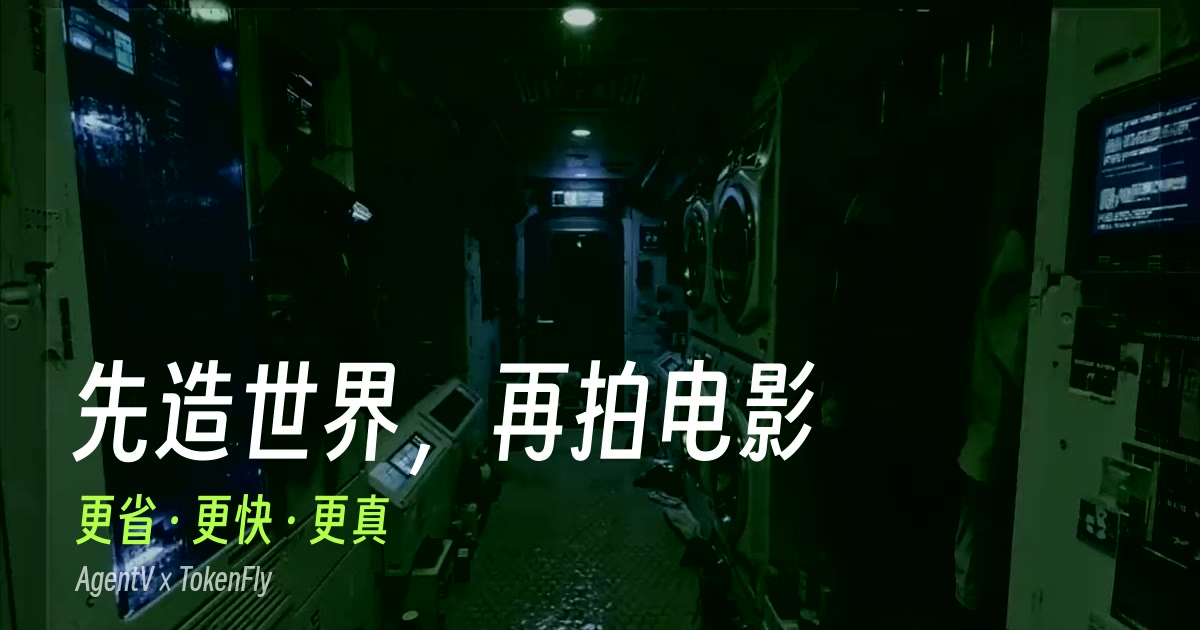
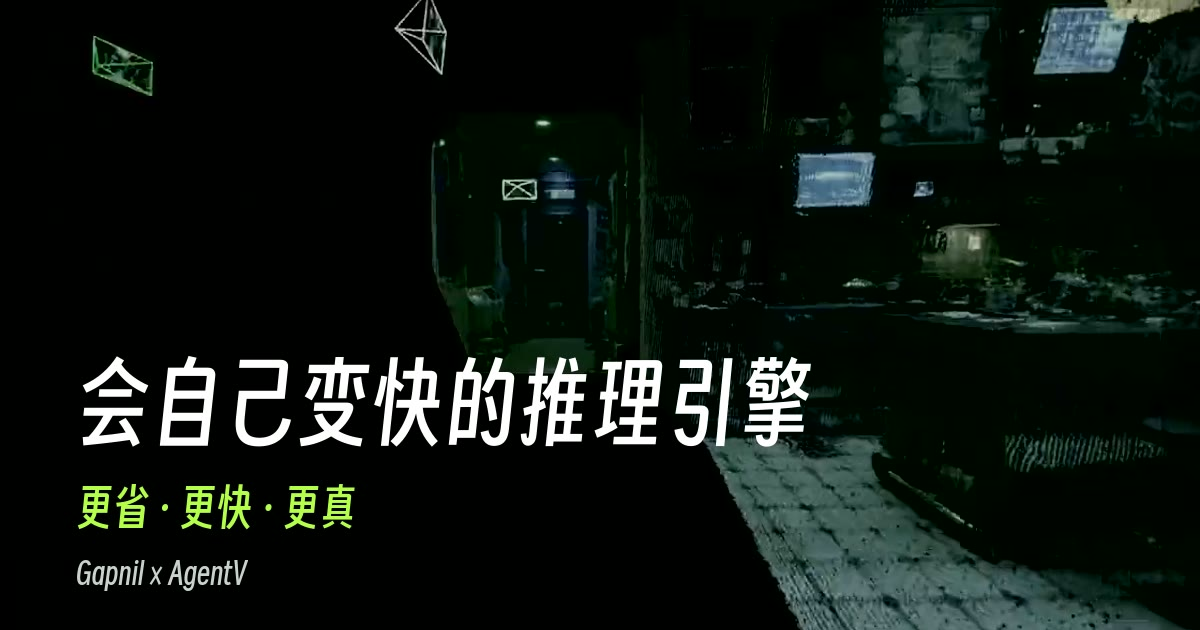
Rename TokenFly to Gapnil, add Gapnil CTA, drop GPU counts from benchmark
Point links, the price API and the switch command at zerogap.cn and
regenerate the share image with the new name.

diff --git a/index.html b/index.html
@@ -3,9 +3,9 @@
 <head>
 <meta charset="utf-8">
 <meta name="viewport" content="width=device-width,initial-scale=1">
-<title>TokenFly × AgentV · 会自己变快的推理引擎</title>
-<meta name="description" content="TokenFly 推理引擎让 330 亿参数的视频模型在 8 张消费级显卡上约 5 秒出片，一条约两三分钱（估算）。AgentV 用它在能走进去的 3D 空间里拍电影。">
-<meta property="og:title" content="TokenFly × AgentV · 会自己变快的推理引擎">
+<title>Gapnil × AgentV · 会自己变快的推理引擎</title>
+<meta name="description" content="Gapnil 推理引擎让 330 亿参数的视频模型在 8 张消费级显卡上约 5 秒出片，一条约两三分钱（估算）。AgentV 用它在能走进去的 3D 空间里拍电影。">
+<meta property="og:title" content="Gapnil × AgentV · 会自己变快的推理引擎">
 <meta property="og:description" content="330 亿参数的视频模型，8 张消费级显卡，约 5 秒出片。更省、更快、更真。">
 <meta property="og:type" content="website">
 <meta property="og:image" content="https://gapnil-ai.github.io/io/og.jpg">
@@ -58,7 +58,7 @@ nav .r a.go{color:#07090a;background:var(--ac);padding:7px 16px;border-radius:99
 .race small{display:block;color:var(--mute);font-size:12px;margin-top:6px;line-height:1.5}
 @media(max-width:900px){.hero{height:auto;padding-top:38svh}.hero .in{grid-template-columns:1fr;gap:26px;padding-bottom:36px}}
 
-section{padding:130px 0 0;scroll-margin-top:-50px}section.w{padding-top:130px}
+section{padding:130px 0 0;scroll-margin-top:-50px}section.w{padding-top:130px}.hero .btn{margin-bottom:10px}
 .k{display:flex;gap:14px;align-items:center;margin-bottom:18px}.k i{width:36px;height:1px;background:var(--ac)}
 h2{font-size:clamp(34px,5.2vw,68px);line-height:1.08}
 .lead{color:var(--mute);font-size:18px;max-width:600px;margin:18px 0 0}
@@ -210,21 +210,21 @@ footer{border-top:1px solid var(--line);padding:34px 0 50px;color:var(--mute);fo
 </style>
 </head>
 <body>
-<nav id="nav"><div class="w"><a class="l" href="#">TokenFly <span class="ac">×</span> AgentV</a><div class="r"><a href="#engine">TokenFly 引擎</a><a href="#rsi">自演进</a><a href="#agentv">AgentV</a><a href="#api">API</a><a href="#cost">算账</a><a class="go" href="https://poping.art/agentv">立即体验</a></div></div></nav>
+<nav id="nav"><div class="w"><a class="l" href="#">Gapnil <span class="ac">×</span> AgentV</a><div class="r"><a href="#engine">Gapnil 引擎</a><a href="#rsi">自演进</a><a href="#agentv">AgentV</a><a href="#api">API</a><a href="#cost">算账</a><a class="go" href="https://poping.art/agentv">立即体验</a></div></div></nav>
 
 <header class="hero">
   <video id="hv" src="media/world.mp4" poster="media/world.jpg" autoplay muted loop playsinline></video>
   <div class="w in">
     <div>
-      <div class="mono ac" style="margin-bottom:18px">TokenFly 推理引擎 · 更省 · 更快 · 更真</div>
+      <div class="mono ac" style="margin-bottom:18px">Gapnil 推理引擎 · 更省 · 更快 · 更真</div>
       <h1>会自己变快的<br>推理引擎</h1>
-      <p>TokenFly 让 330 亿参数的视频模型在 8 张消费级显卡上约 5 秒出片，生成比播放还快，一条只要两三分钱。AgentV 用它在真实的 3D 空间里拍电影。</p>
-      <a class="btn p" href="#engine">它为什么这么快</a> <a class="btn g" href="https://poping.art/agentv">体验 AgentV</a>
+      <p>Gapnil 让 330 亿参数的视频模型在 8 张消费级显卡上约 5 秒出片，生成比播放还快，一条只要两三分钱。AgentV 用它在真实的 3D 空间里拍电影。</p>
+      <a class="btn p" href="#engine">它为什么这么快</a> <a class="btn g" href="https://poping.art/agentv">体验 AgentV</a> <a class="btn g" href="https://zerogap.cn/">体验 Gapnil</a>
     </div>
     <div class="race br" id="race">
       <div class="t"><span>成片播放</span><span class="num" id="r1">0.00</span></div>
       <div class="track"><i id="b1"></i></div>
-      <div class="t"><span class="ac">TokenFly 生成</span><span class="num ac" id="r2">0.00</span></div>
+      <div class="t"><span class="ac">Gapnil 生成</span><span class="num ac" id="r2">0.00</span></div>
       <div class="track g"><i id="b2"></i></div>
       <div class="verdict" id="vd">生成比播放快 <span class="ac">0.34 秒</span></div>
       <small>计时按真实速度播放。720p 线上生成 4.83 秒，成片时长 5.17 秒；线上 3 步配置，画质与完整模式不等价。背景为产品真实录屏。</small>
@@ -240,9 +240,9 @@ footer{border-top:1px solid var(--line);padding:34px 0 50px;color:var(--mute);fo
 </div>
 <section id="engine">
   <div class="w">
-    <div class="k rv"><i></i><span class="mono ac">01 TokenFly 引擎 · 速度</span></div>
+    <div class="k rv"><i></i><span class="mono ac">01 Gapnil 引擎 · 速度</span></div>
     <h2 class="rv">330 亿参数的视频模型，<br>约 5 秒出片</h2>
-    <p class="lead rv">TokenFly 是零隙智能从零自研的推理引擎，不依赖现成的推理框架。同一个开源模型，单张显卡跑完整模式要将近 4 分钟；在 TokenFly 上，线上生成中位数 5.23 秒，720p 下 4.83 秒，比成片播放还快。</p>
+    <p class="lead rv">Gapnil 是零隙智能从零自研的推理引擎，不依赖现成的推理框架。同一个开源模型，单张显卡跑完整模式要将近 4 分钟；在 Gapnil 上，线上生成中位数 5.23 秒，720p 下 4.83 秒，比成片播放还快。</p>
     <div class="st3 q rv">
       <div><b class="num">8<i class="sm">张卡</i></b><span>消费级 RTX 5090，显卡之间没有高端互连，单个请求照样拆到多卡上加速</span></div>
       <div><b class="num">3<i class="sm">倍</i></b><span>同一组提示词、同为 3 步，比 SGLang 部署快约 3 倍</span></div>
@@ -283,11 +283,11 @@ footer{border-top:1px solid var(--line);padding:34px 0 50px;color:var(--mute);fo
     </div>
     <h3 class="rv" style="font-size:34px;margin-top:80px">同一组提示词，快约 3 倍</h3>
     <div class="bm rv" id="bm">
-      <div class="r t"><span>TokenFly · 3 步 · 7 卡</span><div><i data-w="9.8"></i></div><b class="num">9.19–11.73</b></div>
-      <div class="r"><span>SGLang · 3 步 · 4 卡</span><div><i data-w="26.4"></i></div><b class="num">29.65–31.74</b></div>
-      <div class="r"><span>SGLang · 20 步 · 4 卡</span><div><i data-w="97.4"></i></div><b class="num">114.9–116.9</b></div>
+      <div class="r t"><span>Gapnil · 3 步</span><div><i data-w="9.8"></i></div><b class="num">9.19–11.73</b></div>
+      <div class="r"><span>SGLang · 3 步</span><div><i data-w="26.4"></i></div><b class="num">29.65–31.74</b></div>
+      <div class="r"><span>SGLang · 20 步</span><div><i data-w="97.4"></i></div><b class="num">114.9–116.9</b></div>
     </div>
-    <p class="note rv">客户端端到端耗时（秒），1280×720、124 帧，6 条提示词，2026 年 10 月 14 日。TokenFly 用 NVFP4 精度，SGLang 用 BF16 精度，显卡数不同。</p>
+    <p class="note rv">客户端端到端耗时（秒），1280×720、124 帧，6 条提示词，2026 年 10 月 14 日。Gapnil 用 NVFP4 精度，SGLang 用 BF16 精度。</p>
     <div class="anis rv"><span class="mono mute">原理动画</span><a href="assets/feature-amdahl.svg">先找瓶颈</a><a href="assets/feature-multigpu.svg">多卡协作</a><a href="assets/feature-fewstep.svg">少算几步</a></div>
     <h3 class="rv" style="font-size:34px;margin-top:80px">消费级显卡，整机搬得进机房</h3>
     <div class="after rv">
@@ -344,10 +344,10 @@ footer{border-top:1px solid var(--line);padding:34px 0 50px;color:var(--mute);fo
 <section id="agentv" class="w">
   <div class="k rv"><i></i><span class="mono ac">技术落到产品 · AgentV</span></div>
   <h2 class="rv">引擎快了，<br>拍片的方式就变了</h2>
-  <p class="lead rv">AgentV 是跑在 TokenFly 上的导演台。改完马上能看到，所以它敢让你先搭出一个 3D 世界、摆好机位，再一个镜头一个镜头地拍。每个产品承诺，背后都有一项技术撑着。</p>
+  <p class="lead rv">AgentV 是跑在 Gapnil 上的导演台。改完马上能看到，所以它敢让你先搭出一个 3D 世界、摆好机位，再一个镜头一个镜头地拍。每个产品承诺，背后都有一项技术撑着。</p>
   <div class="map rv">
     <div class="r"><div>镜头听导演的</div><div>视频模型不理解空间</div><div><b>世界模型</b>　对话搭建 3D 空间</div></div>
-    <div class="r"><div>改完马上看到</div><div>330 亿参数模型，单卡要分钟级</div><div><b>TokenFly 推理优化</b>　约 5 秒出片</div></div>
+    <div class="r"><div>改完马上看到</div><div>330 亿参数模型，单卡要分钟级</div><div><b>Gapnil 推理优化</b>　约 5 秒出片</div></div>
     <div class="r"><div>一键出整季</div><div>多智能体 Token 消耗约 15×</div><div><b>Telos 运行时</b>　会话成本 −92.3%</div></div>
     <div class="r"><div>拍得起</div><div>托管 API 一条 $0.05–0.52</div><div><b>EryFlow 全栈</b>　¥0.02–0.03（估算）</div></div>
   </div>
@@ -411,7 +411,7 @@ footer{border-top:1px solid var(--line);padding:34px 0 50px;color:var(--mute);fo
 <section id="api" class="w">
   <div class="k rv"><i></i><span class="mono ac">05 Token 平台 · 价格</span></div>
   <h2 class="rv">同一台引擎，<br>也开放给你的代码</h2>
-  <p class="lead rv">不拍片也能用上它。TokenFly 是从算子做起的 Token 平台：一个接口调用文本、图像、语音和视频模型。让 AgentV 快起来的那套自演进算子优化，在这里变成更低的 Token 价格。</p>
+  <p class="lead rv">不拍片也能用上它。Gapnil 是从算子做起的 Token 平台：一个接口调用文本、图像、语音和视频模型。让 AgentV 快起来的那套自演进算子优化，在这里变成更低的 Token 价格。</p>
   <div class="st3 rv">
     <div><b class="num" id="sN">153</b><span>可调用模型</span></div>
     <div><b class="num" id="sP">23</b><span>模型厂商</span></div>
@@ -420,12 +420,12 @@ footer{border-top:1px solid var(--line);padding:34px 0 50px;color:var(--mute);fo
   <div class="pb br rv" id="pb">
     <div class="pbh"><span class="mono">热门模型 · 输出价 / 百万 tokens</span><span class="mono" id="pbs">读取实时价格…</span></div>
     <div id="pbr"></div>
-    <div class="pbf"><span><i class="lg a"></i>TokenFly 价</span><span><i class="lg"></i>厂商官方价</span><a href="https://tokenfly.chat/" class="ac">全部模型价格 →</a></div>
+    <div class="pbf"><span><i class="lg a"></i>Gapnil 价</span><span><i class="lg"></i>厂商官方价</span><a href="https://zerogap.cn/" class="ac">全部模型价格 →</a></div>
   </div>
   <div class="mq rv" aria-hidden="true"><div id="mqi"></div></div>
   <div class="term br rv">
-    <div class="tb"><span class="mono">Claude Code · 一行命令，切换到 TokenFly</span><button id="cp">复制</button></div>
-    <pre><span class="ac">$</span> <code id="cmd">eval "$(curl -fsSL 'https://tokenfly.chat/switch/claude?model=glm-5.3')"</code><i class="cur"></i></pre>
+    <div class="tb"><span class="mono">Claude Code · 一行命令，切换到 Gapnil</span><button id="cp">复制</button></div>
+    <pre><span class="ac">$</span> <code id="cmd">eval "$(curl -fsSL 'https://zerogap.cn/switch/claude?model=glm-5.3')"</code><i class="cur"></i></pre>
     <div class="mch" id="mch"></div>
     <p class="note" style="margin:0;padding:0 20px 18px">粘贴到终端回车，输入 API Key 后运行 claude。适用于 macOS / Linux。Codex 的切换命令和可选模型见官网。</p>
   </div>
@@ -434,8 +434,8 @@ footer{border-top:1px solid var(--line);padding:34px 0 50px;color:var(--mute);fo
     <div><b>企业合同</b><span>用承诺量换专属价格和额度，把 API 一键导入自己的平台。适合用量大的企业和平台。</span></div>
     <div><b>私有化与推理优化</b><span>部署到你的环境，或为你的模型和硬件做算子优化。适合数据敏感企业、算力中心、服务器厂商。</span></div>
   </div>
-  <p class="rv" style="margin-top:34px"><a class="btn p" href="https://tokenfly.chat/">查看模型价格</a> <a class="btn g" href="https://tokenfly.chat/">获取 API Key</a></p>
-  <p class="note rv">价格与模型数量从 tokenfly.chat 实时读取，匿名访客可见的国内模型、OpenAI 格式接口、按官网汇率折算人民币；读取失败时显示 2026 年 11 月 22 日的快照。以官网为准。</p>
+  <p class="rv" style="margin-top:34px"><a class="btn p" href="https://zerogap.cn/">查看模型价格</a> <a class="btn g" href="https://zerogap.cn/">获取 API Key</a></p>
+  <p class="note rv">价格与模型数量从 zerogap.cn 实时读取，匿名访客可见的国内模型、OpenAI 格式接口、按官网汇率折算人民币；读取失败时显示 2026 年 11 月 22 日的快照。以官网为准。</p>
 </section>
 
 <section id="cost" class="w">
@@ -460,14 +460,14 @@ footer{border-top:1px solid var(--line);padding:34px 0 50px;color:var(--mute);fo
 <div class="fin w rv">
   <div class="mono ac" style="margin-bottom:18px">拍得起 · 等得起 · 镜头是真的</div>
   <h2>你描述世界，<br><span class="ac">AgentV 拍成电影</span></h2>
-  <p class="lead" style="margin:22px auto 34px">两三分钱一条，约 5 秒出片，每个镜头都拍在真实的 3D 空间里。拍片走 AgentV，写代码走 TokenFly。</p>
-  <a class="btn p" href="https://poping.art/agentv">用 AgentV 拍片</a> <a class="btn g" href="https://tokenfly.chat/">用 TokenFly API</a>
+  <p class="lead" style="margin:22px auto 34px">两三分钱一条，约 5 秒出片，每个镜头都拍在真实的 3D 空间里。拍片走 AgentV，写代码走 Gapnil。</p>
+  <a class="btn p" href="https://poping.art/agentv">用 AgentV 拍片</a> <a class="btn g" href="https://zerogap.cn/">用 Gapnil API</a>
 </div>
 </main>
 
 <footer><div class="w">
-  AgentV · TokenFly 旗下品牌 · 北京零隙智能科技有限公司 · <a href="https://tokenfly.chat/" style="color:#c9d2cc">tokenfly.chat</a> · <a href="https://poping.art/agentv" style="color:#c9d2cc">poping.art/agentv</a><br>
-  数据口径：TokenFly 实验记录与线上日志（2026 年 9–10 月），8×RTX 5090，显卡之间无 NVLink。226.2 秒、91.1 秒为 49 步完整模式；16 秒、11.9 秒为 4 步；6.96 秒为线上 3 步配置的完整请求中位数（n=13），其中 1344×768 生成 5.23 秒；1280×720 生成 4.83 秒（n=152）。4 步与 3 步模式使用开源加速 LoRA，画质与完整模式不等价。成本为估算。
+  AgentV · Gapnil 旗下品牌 · 北京零隙智能科技有限公司 · <a href="https://zerogap.cn/" style="color:#c9d2cc">zerogap.cn</a> · <a href="https://poping.art/agentv" style="color:#c9d2cc">poping.art/agentv</a><br>
+  数据口径：Gapnil 实验记录与线上日志（2026 年 9–10 月），8×RTX 5090，显卡之间无 NVLink。226.2 秒、91.1 秒为 49 步完整模式；16 秒、11.9 秒为 4 步；6.96 秒为线上 3 步配置的完整请求中位数（n=13），其中 1344×768 生成 5.23 秒；1280×720 生成 4.83 秒（n=152）。4 步与 3 步模式使用开源加速 LoRA，画质与完整模式不等价。成本为估算。
 </div></footer>
 
 <script>
@@ -511,7 +511,7 @@ new IntersectionObserver((e,o)=>{if(e[0].isIntersecting){$('rej').classList.add(
 (function(){const T=['优化开始前，先把“什么算改好了”拆成可以逐条判定的条件，审定后本轮不变。','智能体在独立工作区里，依据性能剖析结果自主选择优化方向并修改代码。','评审与提出优化的智能体分开运行，逐条核验：数值对齐、画质不退化、输出完整、运行稳定，最后才看速度。','通过的代码和经验报告成为下一轮的起点；被退回的条件和证据同样留档。','人工评审放在发布之前，不参与优化反馈，防止系统“为分数而优化”。'],
 ns=[...$('loop').children];let i=0,tm;function go(k){i=k;ns.forEach((n,j)=>n.classList.toggle('on',j===k));$('ld').textContent=T[k];clearTimeout(tm);if(!rm)tm=setTimeout(()=>go((k+1)%5),3200)}
 ns.forEach((n,k)=>n.onclick=()=>go(k));go(0)})();
-// live price board (tokenfly.chat/api/models), snapshot fallback
+// live price board (zerogap.cn/api/models), snapshot fallback
 (function(){const SNAP={"updated_at":1795336005459,"cny_per_usd":6.689203,"count":153,"providers":23,"max_discount_percent":74,"vendors":["Alibaba","BAAI","ByteDance","ByteDance Seed","DeepSeek","Kuaishou (Kling)","Meituan","MiniMax","Moonshot","Moonshot AI","MoonshotAI","StepFun","Tencent","Wan","Xiaomi","Z.ai","alibaba","deepseek","inclusionAI","inclusionAI (Ant Group)","inclusionai","minimax","shibing624"],"models":[{"id":"deepseek-r1","provider":"DeepSeek","type":"text","featured":false,"pricing":{"output_per_million":4.212,"list_output_per_million":5.4,"media_unit_price":null,"media_unit":null,"list_media_unit_price":null,"media_prices":null,"list_media_prices":null,"discount_percent":22}},{"id":"deepseek-v3","provider":"DeepSeek","type":"text","featured":false,"pricing":{"output_per_million":1.0164,"list_output_per_million":1.1,"media_unit_price":null,"media_unit":null,"list_media_unit_price":null,"media_prices":null,"list_media_prices":null,"discount_percent":7.6}},{"id":"deepseek-v3.1","provider":"DeepSeek","type":"text","featured":false,"pricing":{"output_per_million":0.741,"list_output_per_million":0.95,"media_unit_price":null,"media_unit":null,"list_media_unit_price":null,"media_prices":null,"list_media_prices":null,"discount_percent":22}},{"id":"deepseek-v3.2","provider":"DeepSeek","type":"text","featured":false,"pricing":{"output_per_million":0.481,"list_output_per_million":1.85,"media_unit_price":null,"media_unit":null,"list_media_unit_price":null,"media_prices":null,"list_media_prices":null,"discount_percent":71.8}},{"id":"deepseek-v3.2-thinking","provider":"DeepSeek","type":"text","featured":false,"pricing":{"output_per_million":0.3276,"list_output_per_million":0.42,"media_unit_price":null,"media_unit":null,"list_media_unit_price":null,"media_prices":null,"list_media_prices":null,"discount_percent":22}},{"id":"deepseek-v4-flash-vision-exp","provider":"DeepSeek","type":"text","featured":false,"pricing":{"output_per_million":0.6336,"list_output_per_million":1.2,"media_unit_price":null,"media_unit":null,"list_media_unit_price":null,"media_prices":null,"list_media_prices":null,"discount_percent":47.2}},{"id":"deepseek-v4.1-flash","provider":"DeepSeek","type":"text","featured":true,"pricing":{"output_per_million":0.156,"list_output_per_million":0.6,"media_unit_price":null,"media_unit":null,"list_media_unit_price":null,"media_prices":null,"list_media_prices":null,"discount_percent":74}},{"id":"deepseek-v4.1-flash-1017","provider":"DeepSeek","type":"text","featured":true,"pricing":{"output_per_million":0.156,"list_output_per_million":0.6,"media_unit_price":null,"media_unit":null,"list_media_unit_price":null,"media_prices":null,"list_media_prices":null,"discount_percent":74}},{"id":"deepseek-v4.1-flash-1017-fast","provider":"DeepSeek","type":"text","featured":false,"pricing":{"output_per_million":1.872,"list_output_per_million":2.4,"media_unit_price":null,"media_unit":null,"list_media_unit_price":null,"media_prices":null,"list_media_prices":null,"discount_percent":22}},{"id":"deepseek-v4.1-flash-1017-ultrafast","provider":"deepseek","type":"text","featured":false,"pricing":{"output_per_million":8.8704,"list_output_per_million":9.6,"media_unit_price":null,"media_unit":null,"list_media_unit_price":null,"media_prices":null,"list_media_prices":null,"discount_percent":7.6}},{"id":"glm-4.5v","provider":"Z.ai","type":"text","featured":false,"pricing":{"output_per_million":1.6632,"list_output_per_million":1.8,"media_unit_price":null,"media_unit":null,"list_media_unit_price":null,"media_prices":null,"list_media_prices":null,"discount_percent":7.6}},{"id":"glm-4.7-flash","provider":"Z.ai","type":"text","featured":false,"pricing":{"output_per_million":0.429,"list_output_per_million":0.55,"media_unit_price":null,"media_unit":null,"list_media_unit_price":null,"media_prices":null,"list_media_prices":null,"discount_percent":22}},{"id":"glm-5-turbo","provider":"Z.ai","type":"text","featured":false,"pricing":{"output_per_million":3.12,"list_output_per_million":4,"media_unit_price":null,"media_unit":null,"list_media_unit_price":null,"media_prices":null,"list_media_prices":null,"discount_percent":22}},{"id":"glm-5.2-fast","provider":"Z.ai","type":"text","featured":false,"pricing":{"output_per_million":6.864,"list_output_per_million":8.8,"media_unit_price":null,"media_unit":null,"list_media_unit_price":null,"media_prices":null,"list_media_prices":null,"discount_percent":22}},{"id":"glm-5.3","provider":"Z.ai","type":"text","featured":true,"pricing":{"output_per_million":1.573,"list_output_per_million":4.4,"media_unit_price":null,"media_unit":null,"list_media_unit_price":null,"media_prices":null,"list_media_prices":null,"discount_percent":64.3}},{"id":"glm-5.3-flash","provider":"Z.ai","type":"text","featured":true,"pricing":{"output_per_million":0.13,"list_output_per_million":0.5,"media_unit_price":null,"media_unit":null,"list_media_unit_price":null,"media_prices":null,"list_media_prices":null,"discount_percent":73.2}},{"id":"glm-5.3-flashx","provider":"Z.ai","type":"text","featured":false,"pricing":{"output_per_million":0.975,"list_output_per_million":1.25,"media_unit_price":null,"media_unit":null,"list_media_unit_price":null,"media_prices":null,"list_media_prices":null,"discount_percent":22}},{"id":"glm-5.3-flashx-legal","provider":"Z.ai","type":"text","featured":false,"pricing":{"output_per_million":1.155,"list_output_per_million":1.25,"media_unit_price":null,"media_unit":null,"list_media_unit_price":null,"media_prices":null,"list_media_prices":null,"discount_percent":7.6}},{"id":"glm-5v-turbo","provider":"Z.ai","type":"text","featured":false,"pricing":{"output_per_million":3.83664,"list_output_per_million":4,"media_unit_price":null,"media_unit":null,"list_media_unit_price":null,"media_prices":null,"list_media_prices":null,"discount_percent":4.1}},{"id":"hy3","provider":"Tencent","type":"text","featured":false,"pricing":{"output_per_million":0.4524,"list_output_per_million":0.58,"media_unit_price":null,"media_unit":null,"list_media_unit_price":null,"media_prices":null,"list_media_prices":null,"discount_percent":22}},{"id":"hy4","provider":"Tencent","type":"text","featured":false,"pricing":{"output_per_million":0.67527,"list_output_per_million":1.2505,"media_unit_price":null,"media_unit":null,"list_media_unit_price":null,"media_prices":null,"list_media_prices":null,"discount_percent":46}},{"id":"hy4-flash","provider":"Tencent","type":"text","featured":false,"pricing":{"output_per_million":0.07587,"list_output_per_million":0.1405,"media_unit_price":null,"media_unit":null,"list_media_unit_price":null,"media_prices":null,"list_media_prices":null,"discount_percent":46}},{"id":"kimi-k2","provider":"Moonshot","type":"text","featured":false,"pricing":{"output_per_million":2.20317,"list_output_per_million":2.3,"media_unit_price":null,"media_unit":null,"list_media_unit_price":null,"media_prices":null,"list_media_prices":null,"discount_percent":4.2}},{"id":"kimi-k2-thinking","provider":"Moonshot","type":"text","featured":false,"pricing":{"output_per_million":1.56,"list_output_per_million":2,"media_unit_price":null,"media_unit":null,"list_media_unit_price":null,"media_prices":null,"list_media_prices":null,"discount_percent":22}},{"id":"kimi-k2.5","provider":"Moonshot","type":"text","featured":false,"pricing":{"output_per_million":1.235,"list_output_per_million":3,"media_unit_price":null,"media_unit":null,"list_media_unit_price":null,"media_prices":null,"list_media_prices":null,"discount_percent":58.7}},{"id":"kimi-k2.6","provider":"Moonshot","type":"text","featured":false,"pricing":{"output_per_million":1.69,"list_output_per_million":4,"media_unit_price":null,"media_unit":null,"list_media_unit_price":null,"media_prices":null,"list_media_prices":null,"discount_percent":57.8}},{"id":"kimi-k2.7-code","provider":"Moonshot","type":"text","featured":false,"pricing":{"output_per_million":3.12,"list_output_per_million":4,"media_unit_price":null,"media_unit":null,"list_media_unit_price":null,"media_prices":null,"list_media_prices":null,"discount_percent":22}},{"id":"kimi-k2.7-code-highspeed","provider":"Moonshot AI","type":"text","featured":false,"pricing":{"output_per_million":7.776,"list_output_per_million":8,"media_unit_price":null,"media_unit":null,"list_media_unit_price":null,"media_prices":null,"list_media_prices":null,"discount_percent":2.8}},{"id":"kimi-k3.1-pro","provider":"MoonshotAI","type":"text","featured":false,"pricing":{"output_per_million":4.8,"list_output_per_million":10,"media_unit_price":null,"media_unit":null,"list_media_unit_price":null,"media_prices":null,"list_media_prices":null,"discount_percent":52}},{"id":"kimi-k3.1-pro-highspeed","provider":"Moonshot AI","type":"text","featured":false,"pricing":{"output_per_million":19.8,"list_output_per_million":20,"media_unit_price":null,"media_unit":null,"list_media_unit_price":null,"media_prices":null,"list_media_prices":null,"discount_percent":1}},{"id":"ling-3.0-flash","provider":"inclusionAI (Ant Group)","type":"text","featured":false,"pricing":{"output_per_million":0.0702,"list_output_per_million":0.18,"media_unit_price":null,"media_unit":null,"list_media_unit_price":null,"media_prices":null,"list_media_prices":null,"discount_percent":61}},{"id":"ling-3.0-flash-fin","provider":"inclusionAI (Ant Group)","type":"text","featured":false,"pricing":{"output_per_million":0.113652,"list_output_per_million":0.123,"media_unit_price":null,"media_unit":null,"list_media_unit_price":null,"media_prices":null,"list_media_prices":null,"discount_percent":7.6}},{"id":"ling-3.0-flash-sante","provider":"inclusionAI (Ant Group)","type":"text","featured":false,"pricing":{"output_per_million":0.09594,"list_output_per_million":0.123,"media_unit_price":null,"media_unit":null,"list_media_unit_price":null,"media_prices":null,"list_media_prices":null,"discount_percent":22}},{"id":"ling-3.0-flash-vl","provider":"inclusionAI (Ant Group)","type":"text","featured":false,"pricing":{"output_per_million":0.15768,"list_output_per_million":0.18,"media_unit_price":null,"media_unit":null,"list_media_unit_price":null,"media_prices":null,"list_media_prices":null,"discount_percent":12.4}},{"id":"ling-3.1-flash","provider":"inclusionAI","type":"text","featured":false,"pricing":{"output_per_million":0.1755,"list_output_per_million":0.225,"media_unit_price":null,"media_unit":null,"list_media_unit_price":null,"media_prices":null,"list_media_prices":null,"discount_percent":22}},{"id":"ling-3.1-flash-1019","provider":"inclusionai","type":"text","featured":false,"pricing":{"output_per_million":0.702,"list_output_per_million":0.9,"media_unit_price":null,"media_unit":null,"list_media_unit_price":null,"media_prices":null,"list_media_prices":null,"discount_percent":22}},{"id":"longcat-2.5","provider":"Meituan","type":"text","featured":false,"pricing":{"output_per_million":1.3806,"list_output_per_million":2.95,"media_unit_price":null,"media_unit":null,"list_media_unit_price":null,"media_prices":null,"list_media_prices":null,"discount_percent":53.2}},{"id":"mimo-v2.5","provider":"Xiaomi","type":"text","featured":false,"pricing":{"output_per_million":0.258161,"list_output_per_million":0.28,"media_unit_price":null,"media_unit":null,"list_media_unit_price":null,"media_prices":null,"list_media_prices":null,"discount_percent":7.8}},{"id":"mimo-v2.6-flash","provider":"Xiaomi","type":"text","featured":false,"pricing":{"output_per_million":0.18,"list_output_per_million":0.28,"media_unit_price":null,"media_unit":null,"list_media_unit_price":null,"media_prices":null,"list_media_prices":null,"discount_percent":35.7}},{"id":"mimo-v2.6-pro","provider":"Xiaomi","type":"text","featured":false,"pricing":{"output_per_million":0.768,"list_output_per_million":0.87,"media_unit_price":null,"media_unit":null,"list_media_unit_price":null,"media_prices":null,"list_media_prices":null,"discount_percent":11.7}},{"id":"mimo-v2.6-pro-ultraspeed","provider":"Xiaomi","type":"text","featured":false,"pricing":{"output_per_million":8.308432,"list_output_per_million":8.7,"media_unit_price":null,"media_unit":null,"list_media_unit_price":null,"media_prices":null,"list_media_prices":null,"discount_percent":4.5}},{"id":"minimax-h3","provider":"MiniMax","type":"video","featured":true,"pricing":{"output_per_million":0,"list_output_per_million":0,"media_unit_price":0.0208,"media_unit":"second","list_media_unit_price":0.08,"media_prices":{"768P":0.0208,"2K":0.0338},"list_media_prices":{"768P":0.08,"2K":0.13},"discount_percent":74}},{"id":"minimax-m2","provider":"MiniMax","type":"text","featured":false,"pricing":{"output_per_million":0.936,"list_output_per_million":1.2,"media_unit_price":null,"media_unit":null,"list_media_unit_price":null,"media_prices":null,"list_media_prices":null,"discount_percent":22}},{"id":"minimax-m2.1","provider":"MiniMax","type":"text","featured":false,"pricing":{"output_per_million":1.06089,"list_output_per_million":1.2,"media_unit_price":null,"media_unit":null,"list_media_unit_price":null,"media_prices":null,"list_media_prices":null,"discount_percent":11.6}},{"id":"minimax-m2.5","provider":"MiniMax","type":"text","featured":false,"pricing":{"output_per_million":0.507,"list_output_per_million":1.2,"media_unit_price":null,"media_unit":null,"list_media_unit_price":null,"media_prices":null,"list_media_prices":null,"discount_percent":57.7}},{"id":"minimax-m3","provider":"MiniMax","type":"text","featured":false,"pricing":{"output_per_million":0.612,"list_output_per_million":1.2,"media_unit_price":null,"media_unit":null,"list_media_unit_price":null,"media_prices":null,"list_media_prices":null,"discount_percent":48.9}},{"id":"minimax-m3.1-flash","provider":"MiniMax","type":"text","featured":false,"pricing":{"output_per_million":0.288,"list_output_per_million":0.6,"media_unit_price":null,"media_unit":null,"list_media_unit_price":null,"media_prices":null,"list_media_prices":null,"discount_percent":52}},{"id":"qwen-3-30b","provider":"alibaba","type":"text","featured":false,"pricing":{"output_per_million":0.48,"list_output_per_million":0.5,"media_unit_price":null,"media_unit":null,"list_media_unit_price":null,"media_prices":null,"list_media_prices":null,"discount_percent":4}},{"id":"qwen-3-32b","provider":"Alibaba","type":"text","featured":false,"pricing":{"output_per_million":0.3224,"list_output_per_million":0.64,"media_unit_price":null,"media_unit":null,"list_media_unit_price":null,"media_prices":null,"list_media_prices":null,"discount_percent":49.3}},{"id":"qwen-mt-plus","provider":"Alibaba","type":"text","featured":false,"pricing":{"output_per_million":5.7486,"list_output_per_million":7.37,"media_unit_price":null,"media_unit":null,"list_media_unit_price":null,"media_prices":null,"list_media_prices":null,"discount_percent":22}},{"id":"qwen3-30b-a3b","provider":"Alibaba","type":"text","featured":false,"pricing":{"output_per_million":0.486,"list_output_per_million":0.5,"media_unit_price":null,"media_unit":null,"list_media_unit_price":null,"media_prices":null,"list_media_prices":null,"discount_percent":2.8}},{"id":"qwen3-coder-next","provider":"Alibaba","type":"text","featured":false,"pricing":{"output_per_million":1.35,"list_output_per_million":1.5,"media_unit_price":null,"media_unit":null,"list_media_unit_price":null,"media_prices":null,"list_media_prices":null,"discount_percent":9.4}},{"id":"qwen3-next-80b-a3b-instruct","provider":"Alibaba","type":"text","featured":false,"pricing":{"output_per_million":0.936,"list_output_per_million":1.2,"media_unit_price":null,"media_unit":null,"list_media_unit_price":null,"media_prices":null,"list_media_prices":null,"discount_percent":22}},{"id":"qwen3-vl-235b-a22b-instruct","provider":"Alibaba","type":"text","featured":false,"pricing":{"output_per_million":0.96,"list_output_per_million":1.6,"media_unit_price":null,"media_unit":null,"list_media_unit_price":null,"media_prices":null,"list_media_prices":null,"discount_percent":40.5}},{"id":"qwen3-vl-instruct","provider":"alibaba","type":"text","featured":false,"pricing":{"output_per_million":0.942,"list_output_per_million":1.9,"media_unit_price":null,"media_unit":null,"list_media_unit_price":null,"media_prices":null,"list_media_prices":null,"discount_percent":48.8}},{"id":"qwen3.5-397b-a17b","provider":"Alibaba","type":"text","featured":false,"pricing":{"output_per_million":3.4992,"list_output_per_million":3.6,"media_unit_price":null,"media_unit":null,"list_media_unit_price":null,"media_prices":null,"list_media_prices":null,"discount_percent":2.8}},{"id":"qwen3.5-flash","provider":"Alibaba","type":"text","featured":false,"pricing":{"output_per_million":0.312,"list_output_per_million":0.4,"media_unit_price":null,"media_unit":null,"list_media_unit_price":null,"media_prices":null,"list_media_prices":null,"discount_percent":22}},{"id":"qwen3.5-plus","provider":"Alibaba","type":"text","featured":false,"pricing":{"output_per_million":1.872,"list_output_per_million":2.4,"media_unit_price":null,"media_unit":null,"list_media_unit_price":null,"media_prices":null,"list_media_prices":null,"discount_percent":22}},{"id":"qwen3.6-plus","provider":"Alibaba","type":"text","featured":false,"pricing":{"output_per_million":2.064031,"list_output_per_million":3,"media_unit_price":null,"media_unit":null,"list_media_unit_price":null,"media_prices":null,"list_media_prices":null,"discount_percent":31.2}},{"id":"qwen3.7-flash","provider":"Alibaba","type":"text","featured":false,"pricing":{"output_per_million":0.1014,"list_output_per_million":0.13,"media_unit_price":null,"media_unit":null,"list_media_unit_price":null,"media_prices":null,"list_media_prices":null,"discount_percent":22}},{"id":"qwen3.7-max","provider":"Alibaba","type":"text","featured":false,"pricing":{"output_per_million":5.85,"list_output_per_million":7.5,"media_unit_price":null,"media_unit":null,"list_media_unit_price":null,"media_prices":null,"list_media_prices":null,"discount_percent":22}},{"id":"qwen3.7-plus","provider":"Alibaba","type":"text","featured":false,"pricing":{"output_per_million":1.489015,"list_output_per_million":1.6,"media_unit_price":null,"media_unit":null,"list_media_unit_price":null,"media_prices":null,"list_media_prices":null,"discount_percent":6.9}},{"id":"qwen3.8-2.4t-a95b","provider":"Alibaba","type":"text","featured":false,"pricing":{"output_per_million":4.697497,"list_output_per_million":6,"media_unit_price":null,"media_unit":null,"list_media_unit_price":null,"media_prices":null,"list_media_prices":null,"discount_percent":21.7}},{"id":"qwen3.8-27b","provider":"Alibaba","type":"text","featured":false,"pricing":{"output_per_million":0.78,"list_output_per_million":3,"media_unit_price":null,"media_unit":null,"list_media_unit_price":null,"media_prices":null,"list_media_prices":null,"discount_percent":74}},{"id":"qwen3.8-flash","provider":"Alibaba","type":"text","featured":false,"pricing":{"output_per_million":0.264,"list_output_per_million":0.47,"media_unit_price":null,"media_unit":null,"list_media_unit_price":null,"media_prices":null,"list_media_prices":null,"discount_percent":43.8}},{"id":"qwen3.8-max-0902","provider":"Alibaba","type":"text","featured":false,"pricing":{"output_per_million":4.68,"list_output_per_million":6,"media_unit_price":null,"media_unit":null,"list_media_unit_price":null,"media_prices":null,"list_media_prices":null,"discount_percent":22}},{"id":"qwen3.8-max-prime","provider":"Alibaba","type":"text","featured":false,"pricing":{"output_per_million":10.448244,"list_output_per_million":12,"media_unit_price":null,"media_unit":null,"list_media_unit_price":null,"media_prices":null,"list_media_prices":null,"discount_percent":12.9}},{"id":"qwen3.8-omni-flash","provider":"Alibaba","type":"text","featured":false,"pricing":{"output_per_million":0.282,"list_output_per_million":0.47,"media_unit_price":null,"media_unit":null,"list_media_unit_price":null,"media_prices":null,"list_media_prices":null,"discount_percent":40}},{"id":"qwen4-max","provider":"Alibaba","type":"text","featured":false,"pricing":{"output_per_million":3.51,"list_output_per_million":4.5,"media_unit_price":null,"media_unit":null,"list_media_unit_price":null,"media_prices":null,"list_media_prices":null,"discount_percent":22}},{"id":"seed-1.8","provider":"ByteDance","type":"text","featured":false,"pricing":{"output_per_million":1.56,"list_output_per_million":2,"media_unit_price":null,"media_unit":null,"list_media_unit_price":null,"media_prices":null,"list_media_prices":null,"discount_percent":22}},{"id":"seed-2.1-turbo","provider":"ByteDance Seed","type":"text","featured":false,"pricing":{"output_per_million":2.331912,"list_output_per_million":2.5,"media_unit_price":null,"media_unit":null,"list_media_unit_price":null,"media_prices":null,"list_media_prices":null,"discount_percent":6.7}},{"id":"step-5-preview","provider":"StepFun","type":"text","featured":false,"pricing":{"output_per_million":0.884,"list_output_per_million":2.7,"media_unit_price":null,"media_unit":null,"list_media_unit_price":null,"media_prices":null,"list_media_prices":null,"discount_percent":67.3}},{"id":"glm-5.2","provider":"Z.ai","type":"text","featured":false,"pricing":{"output_per_million":1.573,"list_output_per_million":5.75,"media_unit_price":null,"media_unit":null,"list_media_unit_price":null,"media_prices":null,"list_media_prices":null,"discount_percent":72.6}},{"id":"kimi-k3","provider":"Moonshot","type":"text","featured":false,"pricing":{"output_per_million":7.644,"list_output_per_million":15,"media_unit_price":null,"media_unit":null,"list_media_unit_price":null,"media_prices":null,"list_media_prices":null,"discount_percent":49}},{"id":"deepseek-v4-flash","provider":"DeepSeek","type":"text","featured":false,"pricing":{"output_per_million":0.156,"list_output_per_million":0.6,"media_unit_price":null,"media_unit":null,"list_media_unit_price":null,"media_prices":null,"list_media_prices":null,"discount_percent":74}},{"id":"minimax-m2.7","provider":"MiniMax","type":"text","featured":false,"pricing":{"output_per_million":1.1088,"list_output_per_million":1.2,"media_unit_price":null,"media_unit":null,"list_media_unit_price":null,"media_prices":null,"list_media_prices":null,"discount_percent":7.6}},{"id":"deepseek-v4-pro","provider":"DeepSeek","type":"text","featured":false,"pricing":{"output_per_million":1.82952,"list_output_per_million":1.98,"media_unit_price":null,"media_unit":null,"list_media_unit_price":null,"media_prices":null,"list_media_prices":null,"discount_percent":7.6}},{"id":"glm-4.5","provider":"Z.ai","type":"text","featured":false,"pricing":{"output_per_million":1.6104,"list_output_per_million":2.2,"media_unit_price":null,"media_unit":null,"list_media_unit_price":null,"media_prices":null,"list_media_prices":null,"discount_percent":26.8}},{"id":"glm-4.5-air","provider":"Z.ai","type":"text","featured":false,"pricing":{"output_per_million":0.853978,"list_output_per_million":1.1,"media_unit_price":null,"media_unit":null,"list_media_unit_price":null,"media_prices":null,"list_media_prices":null,"discount_percent":22.4}},{"id":"glm-4.6","provider":"Z.ai","type":"text","featured":false,"pricing":{"output_per_million":1.452,"list_output_per_million":2.2,"media_unit_price":null,"media_unit":null,"list_media_unit_price":null,"media_prices":null,"list_media_prices":null,"discount_percent":34}},{"id":"glm-4.7","provider":"Z.ai","type":"text","featured":false,"pricing":{"output_per_million":2.00525,"list_output_per_million":4.15,"media_unit_price":null,"media_unit":null,"list_media_unit_price":null,"media_prices":null,"list_media_prices":null,"discount_percent":52.3}},{"id":"glm-5","provider":"Z.ai","type":"text","featured":false,"pricing":{"output_per_million":2.112,"list_output_per_million":3.2,"media_unit_price":null,"media_unit":null,"list_media_unit_price":null,"media_prices":null,"list_media_prices":null,"discount_percent":34}},{"id":"glm-5.1","provider":"Z.ai","type":"text","featured":false,"pricing":{"output_per_million":2.739,"list_output_per_million":4.15,"media_unit_price":null,"media_unit":null,"list_media_unit_price":null,"media_prices":null,"list_media_prices":null,"discount_percent":34}},{"id":"deepseek-v4-flash-0731","provider":"DeepSeek","type":"text","featured":false,"pricing":{"output_per_million":0.1716,"list_output_per_million":0.66,"media_unit_price":null,"media_unit":null,"list_media_unit_price":null,"media_prices":null,"list_media_prices":null,"discount_percent":73.1}},{"id":"qwen3.5-35b-a3b","provider":"Alibaba","type":"text","featured":false,"pricing":{"output_per_million":1.56,"list_output_per_million":2,"media_unit_price":null,"media_unit":null,"list_media_unit_price":null,"media_prices":null,"list_media_prices":null,"discount_percent":22}},{"id":"qwen3.6-27b","provider":"Alibaba","type":"text","featured":false,"pricing":{"output_per_million":2.808,"list_output_per_million":3.6,"media_unit_price":null,"media_unit":null,"list_media_unit_price":null,"media_prices":null,"list_media_prices":null,"discount_percent":22}},{"id":"qwen3.6-35b-a3b","provider":"Alibaba","type":"text","featured":false,"pricing":{"output_per_million":1.02375,"list_output_per_million":2.25,"media_unit_price":null,"media_unit":null,"list_media_unit_price":null,"media_prices":null,"list_media_prices":null,"discount_percent":55.4}},{"id":"qwen3.8-max","provider":"Alibaba","type":"text","featured":false,"pricing":{"output_per_million":4.32,"list_output_per_million":6,"media_unit_price":null,"media_unit":null,"list_media_unit_price":null,"media_prices":null,"list_media_prices":null,"discount_percent":28}},{"id":"deepseek-v4-pro-0813","provider":"DeepSeek","type":"text","featured":false,"pricing":{"output_per_million":0.806,"list_output_per_million":1.98,"media_unit_price":null,"media_unit":null,"list_media_unit_price":null,"media_prices":null,"list_media_prices":null,"discount_percent":58.8}}]};
 const esc=t=>String(t).replace(/[&<>"']/g,c=>'&#'+c.charCodeAt(0)+';'),VN={'z.ai':'GLM','alibaba':'Qwen','moonshot':'Kimi','moonshot ai':'Kimi','moonshotai':'Kimi','bytedance':'Seed','bytedance seed':'Seed','tencent':'混元','xiaomi':'MiMo','stepfun':'Step','kuaishou (kling)':'Kling','inclusionai':'Ling','inclusionai (ant group)':'Ling','meituan':'LongCat','deepseek':'DeepSeek','minimax':'MiniMax','baai':'BGE','wan':'Wan'};
 const fam=p=>VN[String(p||'').toLowerCase()]||p;
@@ -533,10 +533,10 @@ function draw(d,live){const rate=d.cny_per_usd||SNAP.cny_per_usd,ms=d.models,row
  const vs=[...new Set((live?ms.map(m=>m.provider):d.vendors).filter(Boolean).map(fam))];$('mqi').innerHTML=[...vs,...vs].map(v=>`<span>${esc(v)}</span>`).join('');
  const tx=[...new Set(['glm-5.3',...rows.filter(m=>m.type==='text').map(m=>m.id)])].slice(0,6);
  $('mch').innerHTML=tx.map((id,i)=>`<button class="${i?'':'on'}">${esc(id)}</button>`).join('');
- [...$('mch').children].forEach(b=>b.onclick=()=>{[...$('mch').children].forEach(x=>x.classList.remove('on'));b.classList.add('on');$('cmd').textContent=`eval "$(curl -fsSL 'https://tokenfly.chat/switch/claude?model=${encodeURIComponent(b.textContent)}')"`})}
+ [...$('mch').children].forEach(b=>b.onclick=()=>{[...$('mch').children].forEach(x=>x.classList.remove('on'));b.classList.add('on');$('cmd').textContent=`eval "$(curl -fsSL 'https://zerogap.cn/switch/claude?model=${encodeURIComponent(b.textContent)}')"`})}
 draw(SNAP,false);
 const ac=new AbortController();setTimeout(()=>ac.abort(),8000);
-fetch('https://tokenfly.chat/api/models',{signal:ac.signal,credentials:'omit'}).then(r=>r.ok?r.json():Promise.reject()).then(d=>{if(d&&Array.isArray(d.models)&&d.models.length)draw(d,true)}).catch(()=>{})})();
+fetch('https://zerogap.cn/api/models',{signal:ac.signal,credentials:'omit'}).then(r=>r.ok?r.json():Promise.reject()).then(d=>{if(d&&Array.isArray(d.models)&&d.models.length)draw(d,true)}).catch(()=>{})})();
 // calculator
 (function(){const f=n=>Math.round(n).toLocaleString('en-US');
 function c(){const a=+$('s1').value,b=+$('s2').value,k=+$('s3').value,n=a*b*k;$('v1').textContent=a;$('v2').textContent=b;$('v3').textContent=k;
